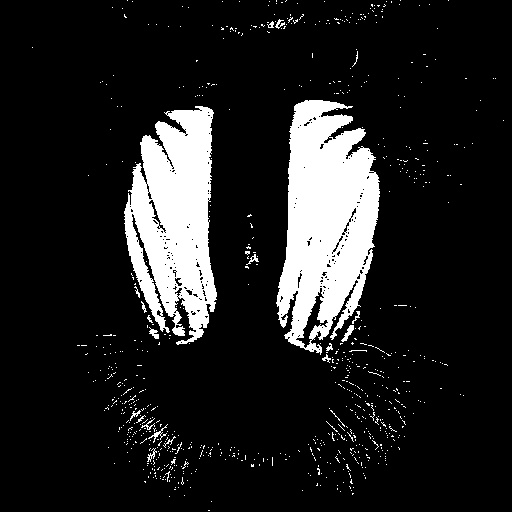
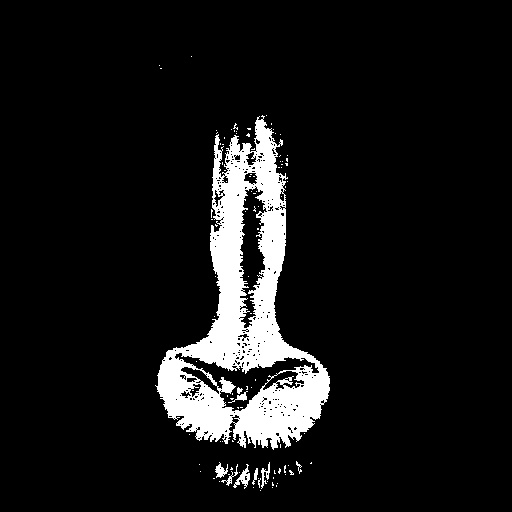
lab 1 - test with in-built inRange function

diff --git a/lab1/colourthreshold.cpp b/lab1/colourthreshold.cpp
@@ -17,7 +17,7 @@ int main() {
         uchar blue = image.at<Vec3b>(y, x)[0];
         uchar green = image.at<Vec3b>(y, x)[1];
         uchar red = image.at<Vec3b>(y, x)[2];
-        if (blue>200){
+        if (blue < 120 && red > 200 && green < 100 ){ //highlight nose
             image.at<Vec3b>(y, x)[0]= 255;
             image.at<Vec3b>(y, x)[1]= 255;
             image.at<Vec3b>(y, x)[2]= 255;
@@ -32,10 +32,14 @@ int main() {
 
   //Save thresholded image
   imwrite("ColourThreshold.jpg", image);
-    
-    cvtColor(frame, frame_HSV, COLOR_BGR2HSV);
-    // Detect the object based on HSV Range Values
-    inRange(frame_HSV, Scalar(low_H, low_S, low_V), Scalar(high_H, high_S, high_V), frame_threshold);
 
+  // using in-built function inRange
+  Mat image2 = imread("mandrillRGB.jpg", 1);
+
+  Mat mask;
+  inRange(image2,  cv::Scalar(0, 0, 200),  cv::Scalar(120, 100, 255), mask);
+  imwrite("ColourThresholdFunction.jpg", mask);
+
+    
   return 0;
 }
